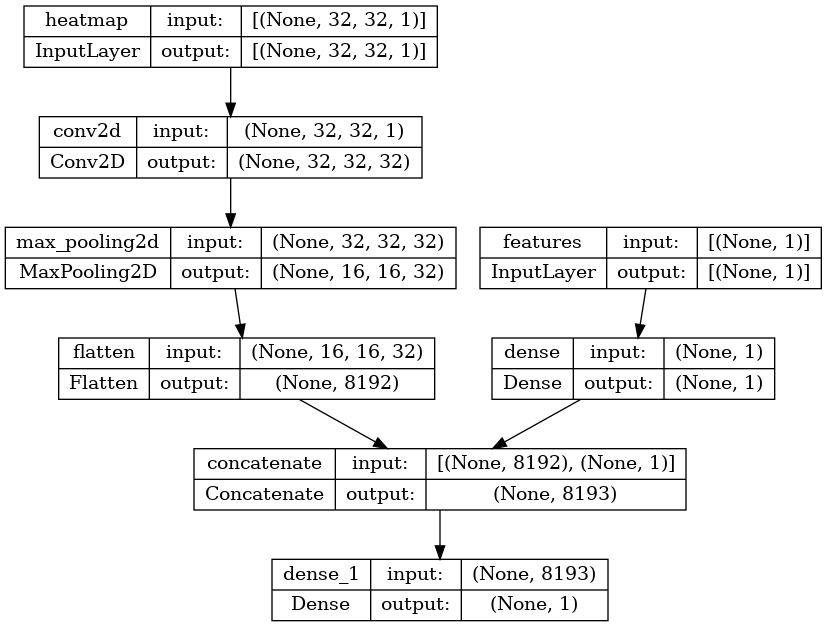
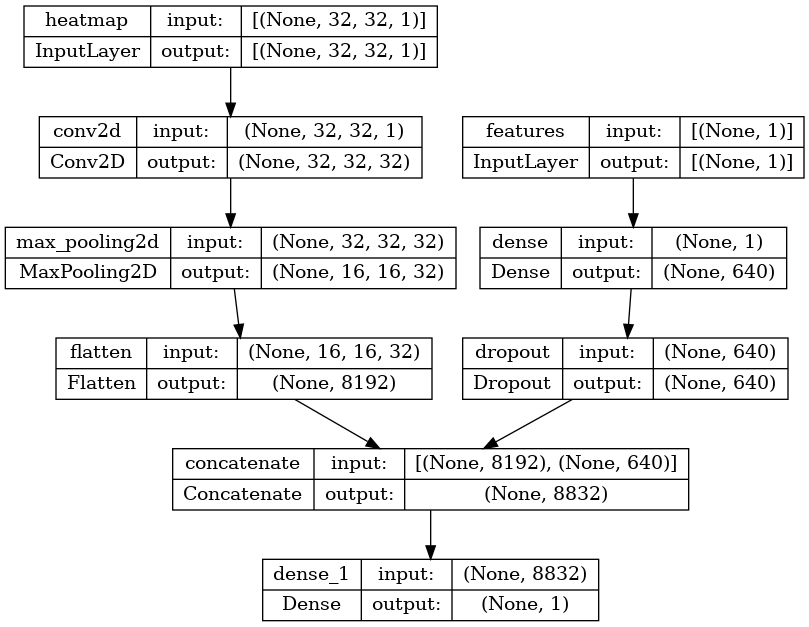
Implemented get_model_wrapper

diff --git a/cw02/phase_03/competition/models/heatmap_covnet.py b/cw02/phase_03/competition/models/heatmap_covnet.py
@@ -4,11 +4,16 @@ using a Convolutional Neural Network to classify the data.
 """
 
 import logging
-from typing import Callable, Optional, Tuple, List
+from typing import Callable, Dict, Optional, Tuple, List
+import ast
 import mlflow
 
 import keras as k
 from keras import layers
+from keras import optimizers
+
+from keras_tuner import tuners
+from keras_tuner.engine import tuner as tuner_module
 
 import competition.model_definitions as mm
 import competition.model_layers as ml
@@ -166,3 +171,46 @@ class HeatmapCovnetModel():
                 metrics=self.metrics)
 
         return model
+    
+    def get_model_wrapper(self,
+                          hp,
+                          define_tune_parameters,
+                          optimizer:Optional[Callable]) -> k.Model:
+        """
+        This function takes the extra hyper parameter object that are required
+        for the build function.
+        """
+        # define the training parameters
+        define_tune_parameters(hp)
+
+        # get the model
+        return self.get_model(
+            covnet_block_count=hp['covnet_block_count'],
+            covnet_activation=mm.get_activation_layer(hp['covnet_activation']),
+            covnet_cov_count=hp['covnet_cov_count'],
+            covnet_channels=hp['covnet_channels'],
+            covnet_kernel_size=ast.literal_eval(hp['covnet_kernel_size']),
+            covnet_pool_size=ast.literal_eval(hp['covnet_pool_size']),
+            dense_layer_count=hp['dense_layer_count'],
+            dense_units=hp['dense_units'],
+            dense_activation=mm.get_activation_layer(hp['dense_activation']),
+            dense_l1_regularization=hp['dense_l1_regularization'],
+            dense_l2_regularization=hp['dense_l2_regularization'],
+            dense_dropout=hp['dense_dropout'],
+            compile_model=True,
+            optimizer=optimizer,
+            learning_rate=hp['learning_rate'])
+    
+
+    def tune_model(self,
+                   define_tune_parameters,
+                   dataset:Dict,
+                   max_trials:int,
+                   train_epochs:int,
+                   train_batch_size:int,
+                   train_optimizer:Optional[Callable],
+                   tuner_type:tuner_module.Tuner,
+                   tune_objective:str,
+                   tune_direction:str,
+                   train_class_weight:Optional[Dict]=None) -> k.Model:
+        pass
